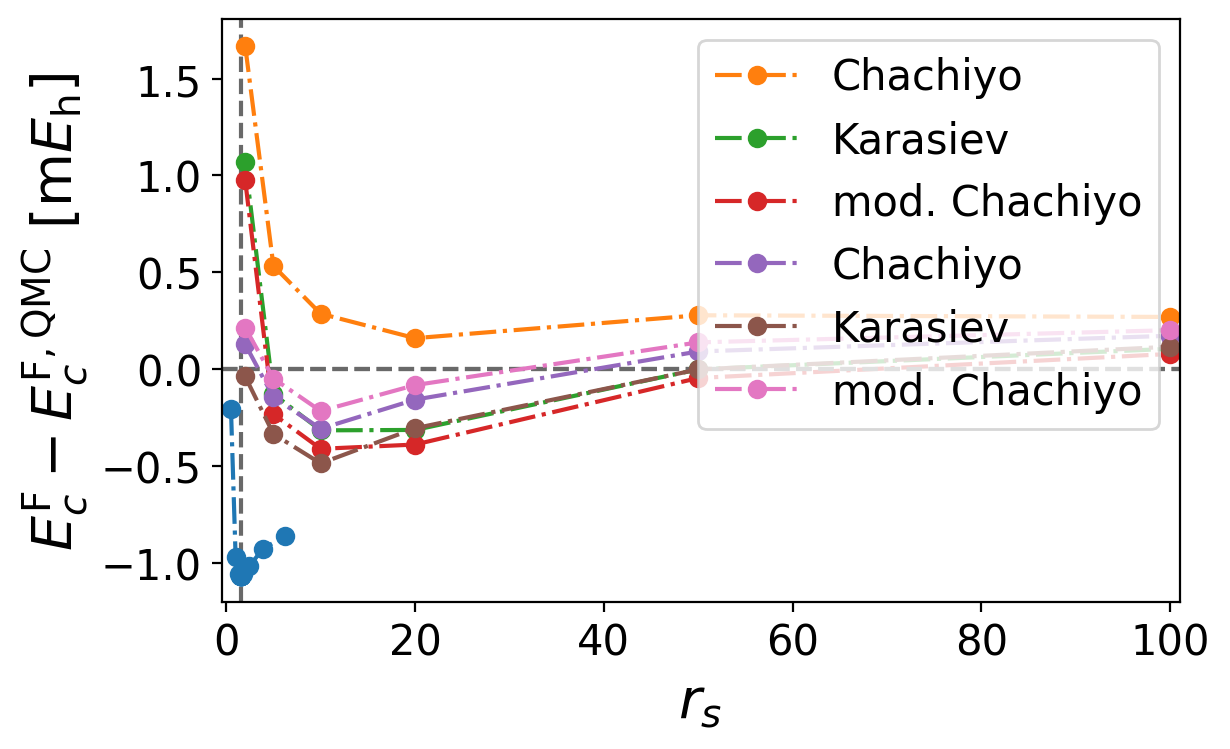
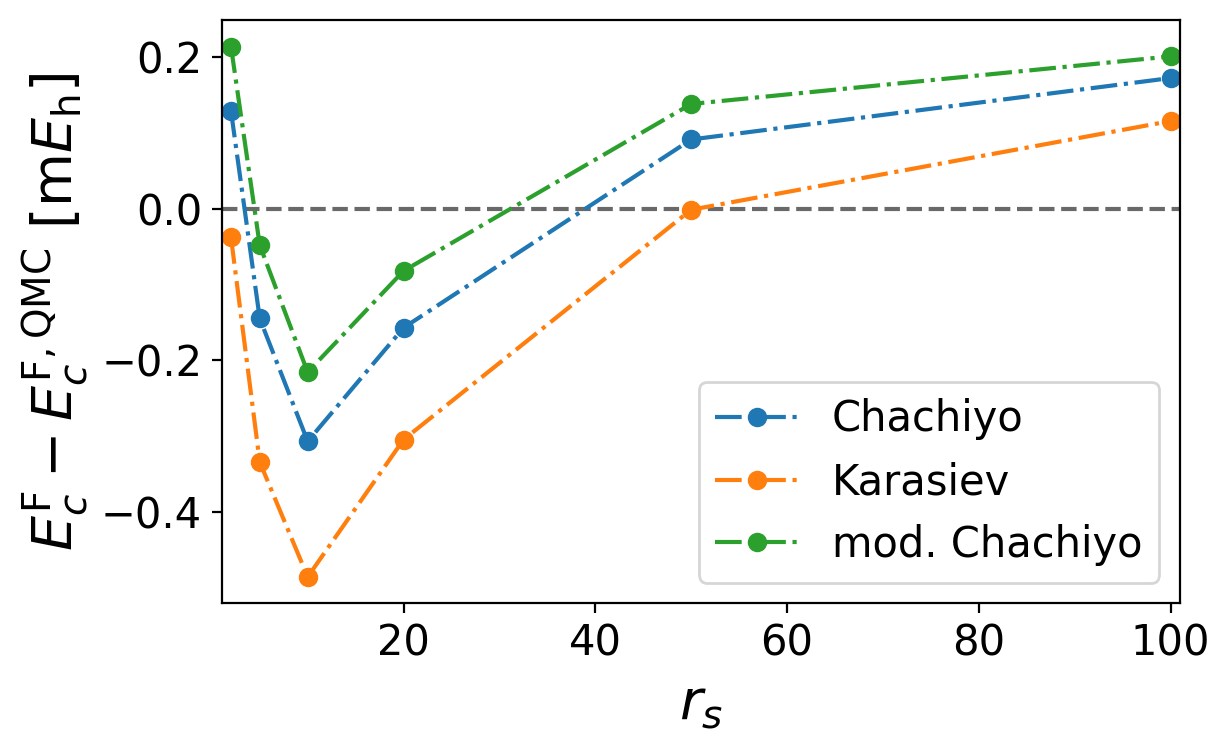
examples: Fix PNG generation when running in batch

diff --git a/examples/15_custom_functionals_spin/15_custom_functionals_spin.py b/examples/15_custom_functionals_spin/15_custom_functionals_spin.py
@@ -50,6 +50,7 @@ print(f'\nFitted parameter:\nb1 = {fitted_b1[0]:.7f}')
 # # Plot the error of the correlation energies compared to the QMC data for Chachiyo, Karasiev, and our functional
 # # Find the plot named `correlation_energy_error_spin.png`
 plt.style.use('../eminus.mplstyle')
+plt.figure()
 plt.axhline(c='dimgrey', ls='--', marker='')
 plt.plot(rs, 1000 * (lda_c_chachiyo_spin(n, 1, b0, b1) - ecf), label='Chachiyo')
 plt.plot(rs, 1000 * (lda_c_chachiyo_spin(n, 1, 21.7392245, 28.3559732) - ecf), label='Karasiev')

diff --git a/examples/14_custom_functionals/14_custom_functionals.py b/examples/14_custom_functionals/14_custom_functionals.py
@@ -58,6 +58,7 @@ print(f'\nFitted parameter:\nb = {fitted_b[0]:.7f}')
 # # Plot the error of the correlation energies compared to the QMC data for Chachiyo, Karasiev, and our functional
 # # Find the plot named `correlation_energy_error.png`
 plt.style.use('../eminus.mplstyle')
+plt.figure()
 plt.axhline(c='dimgrey', ls='--', marker='')
 plt.plot(rs, 1000 * (functional_wrapper(rs, b) - ecp), label='Chachiyo')
 plt.plot(rs, 1000 * (functional_wrapper(rs, 21.7392245) - ecp), label='Karasiev')

diff --git a/examples/13_geometry_optimization/13_geometry_optimization.py b/examples/13_geometry_optimization/13_geometry_optimization.py
@@ -36,6 +36,7 @@ print(f'Optimized bond length: {bohr2ang(res.x):.6f} A')
 # # Find the plot named `dissociation_energy_h2.png`
 plt.style.use('../eminus.mplstyle')
 sort = np.argsort(distances)
+plt.figure()
 plt.axvline(res.x, c='dimgrey', ls='--', marker='')
 plt.plot(np.array(distances)[sort], np.array(energies)[sort])
 plt.xlabel(r'H-H distance [$a_0$]')
